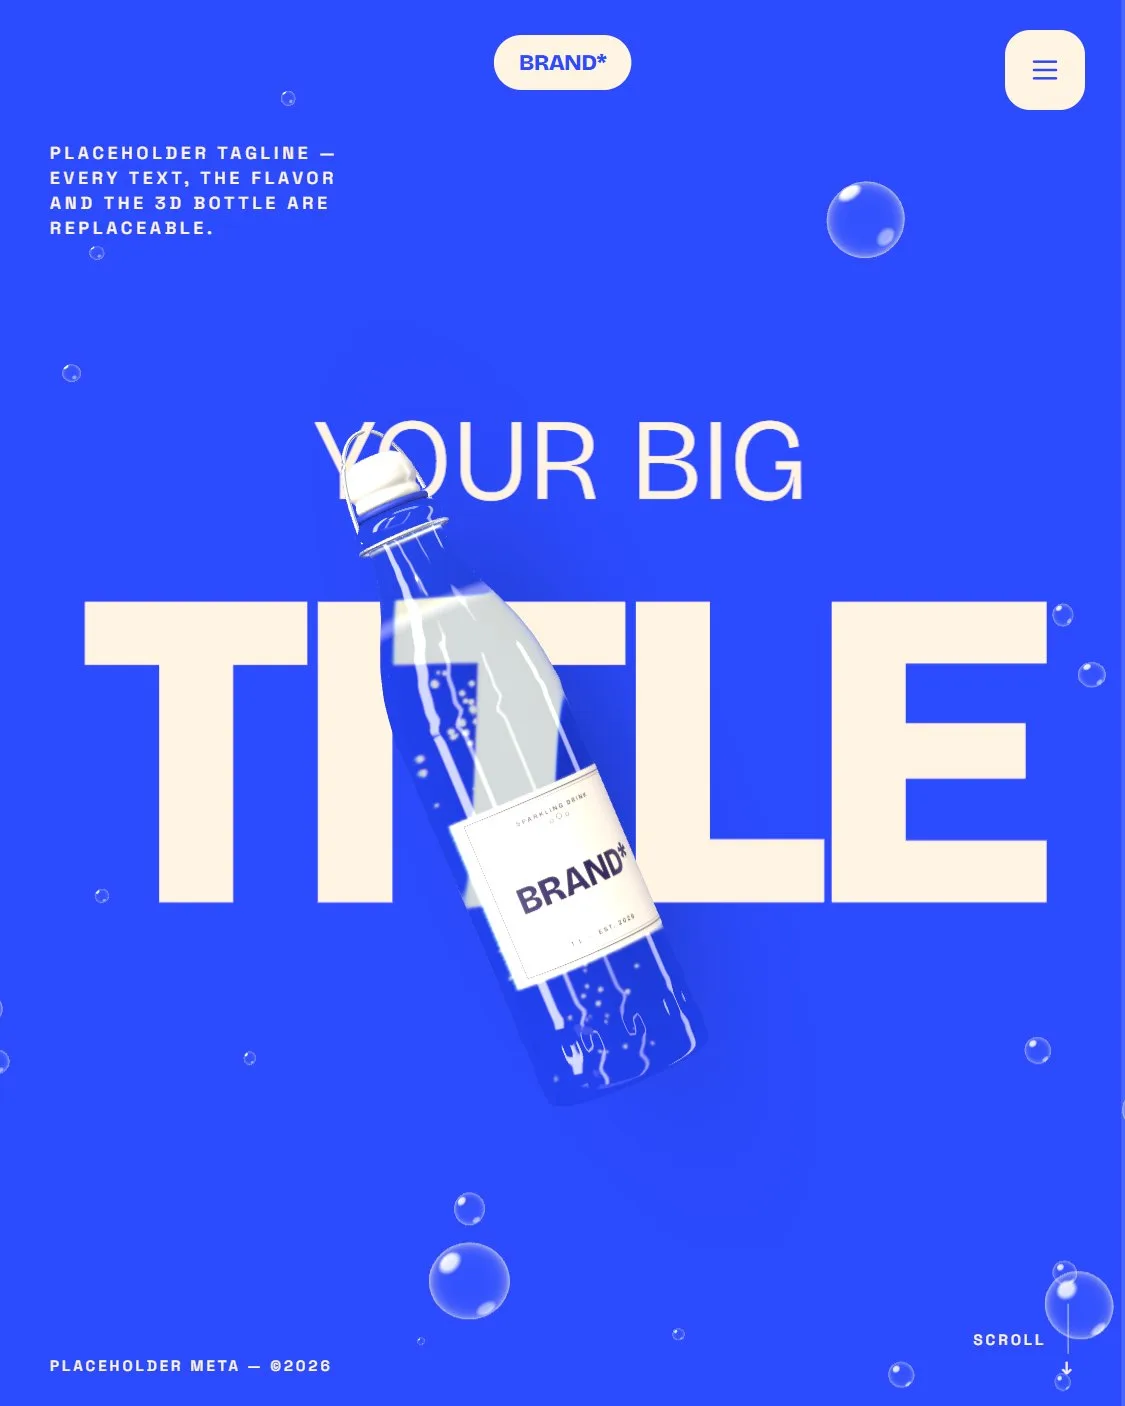
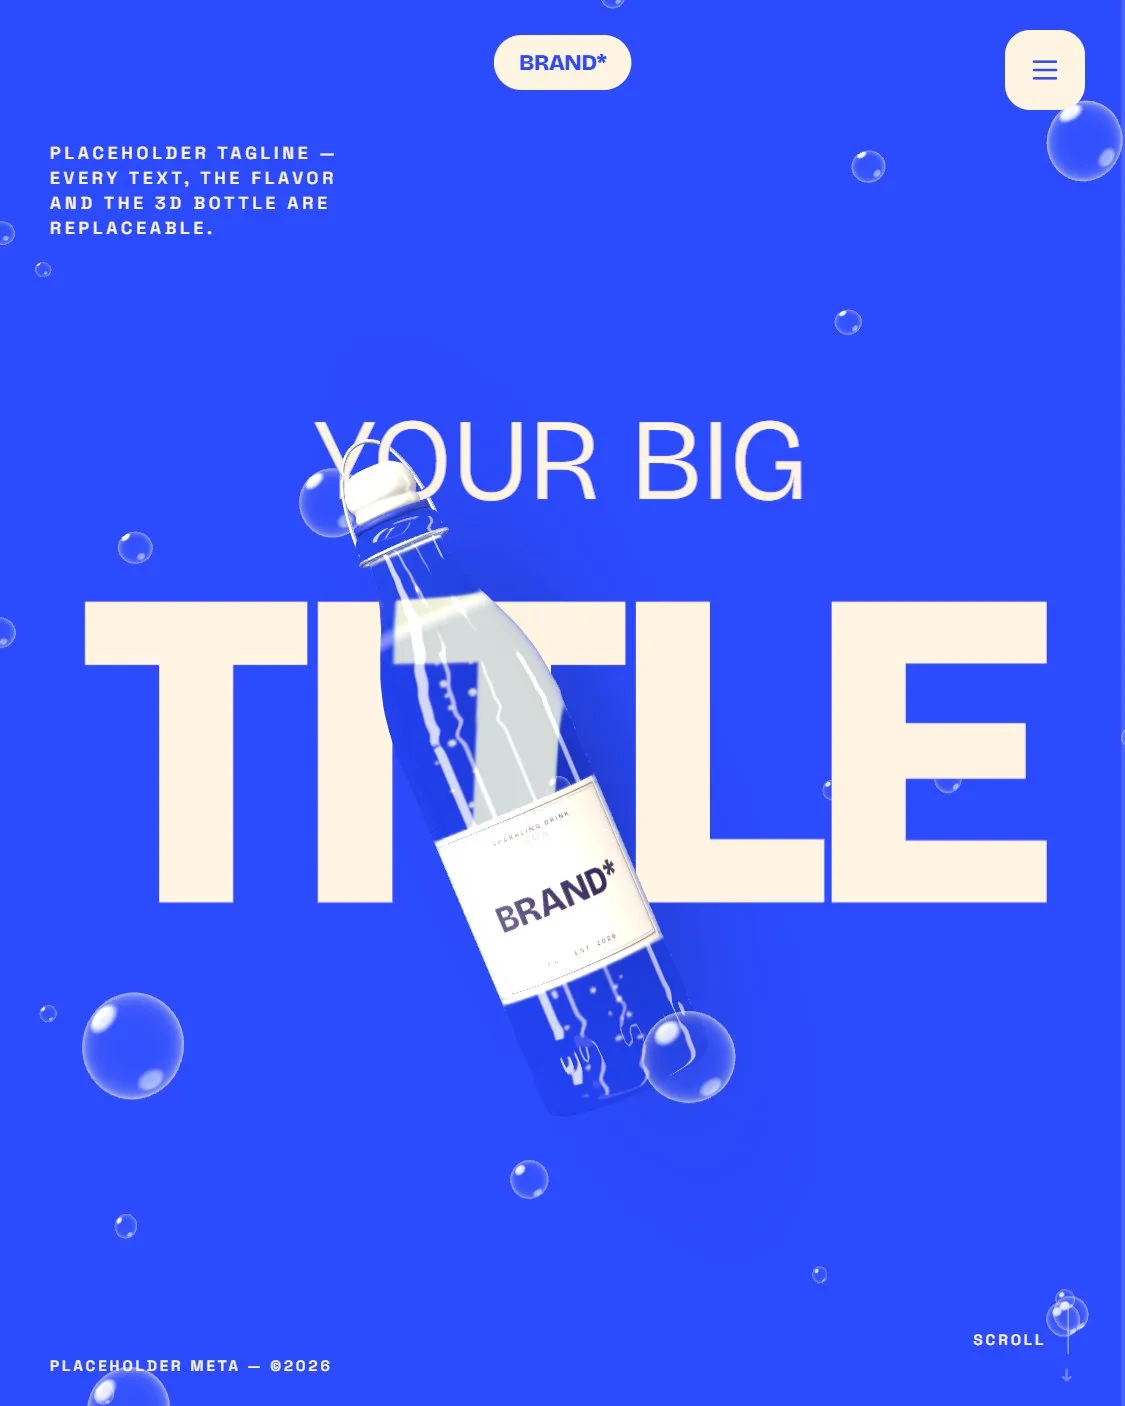
Fizz: intro del hero en orden — burbujas, titular letra por letra, botella
Las burbujas aparecen solas, después cada letra del titular llega desde una
posición, escala e inclinación distintas, y al final entran los textos chicos
y la botella. Imagen del catálogo regenerada.

diff --git a/src/components/sections/fizz/HeroBubbles.jsx b/src/components/sections/fizz/HeroBubbles.jsx
@@ -172,9 +172,22 @@ function drawTitleLine(text, { family, weight, tracking, targetWidth, maxSize, d
   ctx.fillStyle = '#fff'
   ctx.fillText(text, pad, pad + m.actualBoundingBoxAscent)
 
+  // Where each letter sits in the line, so every one can fly in on its own.
+  const advance = (n) => ctx.measureText(text.slice(0, n)).width
+  const cuts = []
+  for (let i = 0; i < text.length; i += 1) {
+    if (text[i] === ' ') continue
+    // Cut along the glyph's own ink, so a neighbour's edge never rides along.
+    const glyph = ctx.measureText(text[i])
+    const origin = pad + advance(i + 1) - glyph.width
+    const x0 = Math.max(0, origin - glyph.actualBoundingBoxLeft - 1)
+    const x1 = Math.min(width, origin + glyph.actualBoundingBoxRight + 1)
+    cuts.push({ x0, x1, u0: x0 / width, u1: x1 / width })
+  }
+
   const texture = new THREE.CanvasTexture(canvas)
   texture.anisotropy = 8
-  return { texture, width, height }
+  return { texture, width, height, cuts }
 }
 
 /** Brand label: `canLabel` set in the page font, plus small print and paper grain. */
@@ -251,21 +264,20 @@ const TITLE_VERTEX = /* glsl */ `
 `
 
 // Opaque on purpose: the glass only refracts what the opaque pass drew, so the
-// headline lives in the canvas instead of the DOM. `uReveal` lifts it from
-// below its own box, left to right.
+// headline lives in the canvas instead of the DOM. Each letter is its own quad
+// reading its slice of the line (`uUv0`..`uUv1`); `uIn` fades it up as it lands.
 const TITLE_FRAGMENT = /* glsl */ `
   uniform sampler2D map;
   uniform vec3 uInk;
   uniform vec3 uPaper;
-  uniform float uReveal;
+  uniform float uUv0;
+  uniform float uUv1;
+  uniform float uIn;
   uniform float uFade;
   varying vec2 vUv;
   void main() {
-    float local = clamp(uReveal * 1.6 - vUv.x * 0.6, 0.0, 1.0);
-    float lift = pow(1.0 - local, 4.0);
-    vec2 uv = vec2(vUv.x, vUv.y + lift);
-    if (uv.y > 1.0) discard;
-    float a = texture2D(map, uv).a * uFade;
+    vec2 uv = vec2(mix(uUv0, uUv1, vUv.x), vUv.y);
+    float a = texture2D(map, uv).a * uFade * uIn;
     if (a < 0.004) discard;
     gl_FragColor = vec4(mix(uPaper, uInk, a), 1.0);
     #include <colorspace_fragment>
@@ -404,48 +416,91 @@ export default function HeroBubbles({
               },
             ]
       const planeGeo = new THREE.PlaneGeometry(1, 1)
-      const titleMeshes = lines.map(() => {
-        const mesh = new THREE.Mesh(
-          planeGeo,
-          new THREE.ShaderMaterial({
-            uniforms: {
-              map: { value: null },
-              uInk: { value: new THREE.Color(flavorCfg.ink) },
-              uPaper: { value: new THREE.Color(flavorCfg.bg) },
-              uReveal: { value: reduced ? 1 : 0 },
-              uFade: { value: 1 },
-            },
-            vertexShader: TITLE_VERTEX,
-            fragmentShader: TITLE_FRAGMENT,
-          }),
-        )
-        titleGroup.add(mesh)
-        return mesh
-      })
+      const lineTextures = []
+      let letters = []
+      // The state outlives every re-layout (fonts arriving, resizes): t goes 0 → 1
+      // as the letter flies in from its scattered start.
+      const letterStates = []
+      const letterState = (i) =>
+        (letterStates[i] ||= {
+          t: reduced ? 1 : 0,
+          ox: (Math.random() - 0.5) * W * 0.6,
+          oy: -(0.12 + Math.random() * 0.4) * H,
+          rot: (Math.random() - 0.5) * 1.8,
+          s0: 0.35 + Math.random() * 1.1,
+        })
+
+      const applyLetters = () => {
+        letters.forEach(({ mesh, state, x, y, w, h }) => {
+          const k = 1 - state.t
+          const sc = lerp(state.s0, 1, state.t)
+          mesh.position.set(x + k * state.ox, y + k * state.oy, 0)
+          mesh.rotation.z = k * state.rot
+          mesh.scale.set(w * sc, h * sc, 1)
+          mesh.material.uniforms.uIn.value = clamp01(state.t * 2)
+        })
+      }
+
+      const clearTitle = () => {
+        letters.forEach(({ mesh }) => {
+          titleGroup.remove(mesh)
+          mesh.material.dispose()
+        })
+        lineTextures.forEach((texture) => texture.dispose())
+        letters = []
+        lineTextures.length = 0
+      }
 
       const layoutTitle = () => {
-        let total = 0
+        clearTitle()
         const gap = H * 0.035
-        titleMeshes.forEach((mesh, i) => {
-          const line = lines[i]
-          mesh.material.uniforms.map.value?.dispose()
-          const drawn = drawTitleLine(line.text, {
+        const drawnLines = lines.map((line) =>
+          drawTitleLine(line.text, {
             family,
             weight: line.weight,
             tracking: line.tracking,
             targetWidth: W * (narrow ? line.widthNarrow : line.width),
             maxSize: H * line.max,
             dpr,
+          }),
+        )
+        const total = drawnLines.reduce((sum, d, i) => sum + d.height + (i ? gap : 0), 0)
+        let top = total / 2 + H * 0.02
+        let n = 0
+        drawnLines.forEach((drawn) => {
+          lineTextures.push(drawn.texture)
+          const y = top - drawn.height / 2
+          drawn.cuts.forEach((cut) => {
+            const mesh = new THREE.Mesh(
+              planeGeo,
+              new THREE.ShaderMaterial({
+                uniforms: {
+                  map: { value: drawn.texture },
+                  uInk: { value: new THREE.Color(flavorCfg.ink) },
+                  uPaper: { value: new THREE.Color(flavorCfg.bg) },
+                  uUv0: { value: cut.u0 },
+                  uUv1: { value: cut.u1 },
+                  uIn: { value: 0 },
+                  uFade: { value: 1 },
+                },
+                vertexShader: TITLE_VERTEX,
+                fragmentShader: TITLE_FRAGMENT,
+              }),
+            )
+            titleGroup.add(mesh)
+            letters.push({
+              mesh,
+              state: letterState(n),
+              x: (cut.x0 + cut.x1) / 2 - drawn.width / 2,
+              y,
+              w: cut.x1 - cut.x0,
+              h: drawn.height,
+            })
+            n += 1
           })
-          mesh.material.uniforms.map.value = drawn.texture
-          mesh.scale.set(drawn.width, drawn.height, 1)
-          total += drawn.height + (i ? gap : 0)
+          top -= drawn.height + gap
         })
-        let y = total / 2 + H * 0.02
-        titleMeshes.forEach((mesh) => {
-          mesh.position.y = y - mesh.scale.y / 2
-          y -= mesh.scale.y + gap
-        })
+        applyLetters()
       }
 
       /* ── Sombra sobre el fondo ─────────────────────────────────── */
@@ -717,12 +772,20 @@ export default function HeroBubbles({
         b.born = b.y
         return b
       }
-      const bubbles = Array.from({ length: bubbleCount }, () => spawnBubble({}, true))
+      const bubbles = Array.from({ length: bubbleCount }, () => {
+        const b = spawnBubble({}, true)
+        b.delay = Math.random() * 0.5
+        return b
+      })
+      // The first thing on screen: the bubbles, popping in one by one.
+      const intro = { bubbles: reduced ? 1 : 0 }
       const placeBubbles = (time, dt, boost) => {
         bubbles.forEach((b, i) => {
           b.y += b.speed * H * dt * boost
           if (b.y > H * 0.5 + b.r * 3) spawnBubble(b, false)
-          const grow = clamp01((b.y - b.born) / (H * 0.12) + (b.born > -H * 0.5 ? 1 : 0))
+          const grow =
+            clamp01((b.y - b.born) / (H * 0.12) + (b.born > -H * 0.5 ? 1 : 0)) *
+            smooth(clamp01((intro.bubbles - (b.delay || 0)) / 0.5))
           const wobble = Math.sin(time * 3.1 + b.phase) * 0.05
           bubbleDummy.position.set(b.x + Math.sin(time * 0.9 + b.phase) * b.sway, b.y, b.z)
           bubbleDummy.scale.set(b.r * grow * (1 + wobble), b.r * grow * (1 - wobble), b.r * grow)
@@ -801,9 +864,10 @@ export default function HeroBubbles({
         titleGroup.position.y = Math.min(Math.max(-rect.top, 0), rect.height - H)
         // Al irse hacia arriba el titular se apaga, sin cortarse de golpe.
         const fade = 1 - smooth(clamp01((-rect.top - H * 0.05) / (H * 0.55)))
-        titleMeshes.forEach((mesh) => {
+        letters.forEach(({ mesh }) => {
           mesh.material.uniforms.uFade.value = fade
         })
+        applyLetters()
         // Scrollear agita el gas.
         const speed = Math.abs(rect.top - lastTop)
         lastTop = rect.top
@@ -826,7 +890,7 @@ export default function HeroBubbles({
       let introDone = reduced
       function startBottle() {
         if (reduced || !introDone || !model) return
-        gsap.to(state, { enter: 0, duration: 1.7, ease: 'power3.out' })
+        gsap.to(state, { enter: 0, duration: 2, ease: 'power3.out' })
       }
 
       layout()
@@ -885,21 +949,25 @@ export default function HeroBubbles({
           },
         })
 
-        // Entrada en orden: titular → textos chicos → botella.
-        titleMeshes.forEach((mesh, i) => {
-          gsap.to(mesh.material.uniforms.uReveal, {
-            value: 1,
-            duration: 1.3,
-            ease: 'power1.out',
-            delay: 0.15 + i * 0.14,
+        // Entrada en orden, sin prisa: burbujas → titular letra por letra → textos
+        // chicos → botella.
+        const LETTERS_AT = 1.5
+        gsap.to(intro, { bubbles: 1, duration: 1.8, ease: 'none' })
+        letters.forEach(({ state }, i) => {
+          gsap.to(state, {
+            t: 1,
+            duration: 1.25,
+            ease: 'power3.out',
+            delay: LETTERS_AT + i * 0.06,
           })
         })
+        const lettersDone = LETTERS_AT + letters.length * 0.06 + 1.25
         gsap.to('[data-fizz-fade]', {
           opacity: 1,
-          duration: 0.7,
+          duration: 0.8,
           ease: 'power2.out',
           stagger: 0.1,
-          delay: 0.95,
+          delay: lettersDone - 0.7,
         })
         gsap.to('[data-fizz-arrow]', {
           y: 6,
@@ -909,7 +977,7 @@ export default function HeroBubbles({
           repeat: -1,
           yoyo: true,
         })
-        gsap.delayedCall(0.6, () => {
+        gsap.delayedCall(lettersDone - 0.9, () => {
           introDone = true
           startBottle()
         })
@@ -945,10 +1013,7 @@ export default function HeroBubbles({
         io.disconnect()
         window.removeEventListener('pointermove', onPointerMove)
         gsap.ticker.remove(tick)
-        titleMeshes.forEach((mesh) => {
-          mesh.material.uniforms.map.value?.dispose()
-          mesh.material.dispose()
-        })
+        clearTitle()
         planeGeo.dispose()
         shadowMesh.geometry.dispose()
         shadowMat.dispose()
